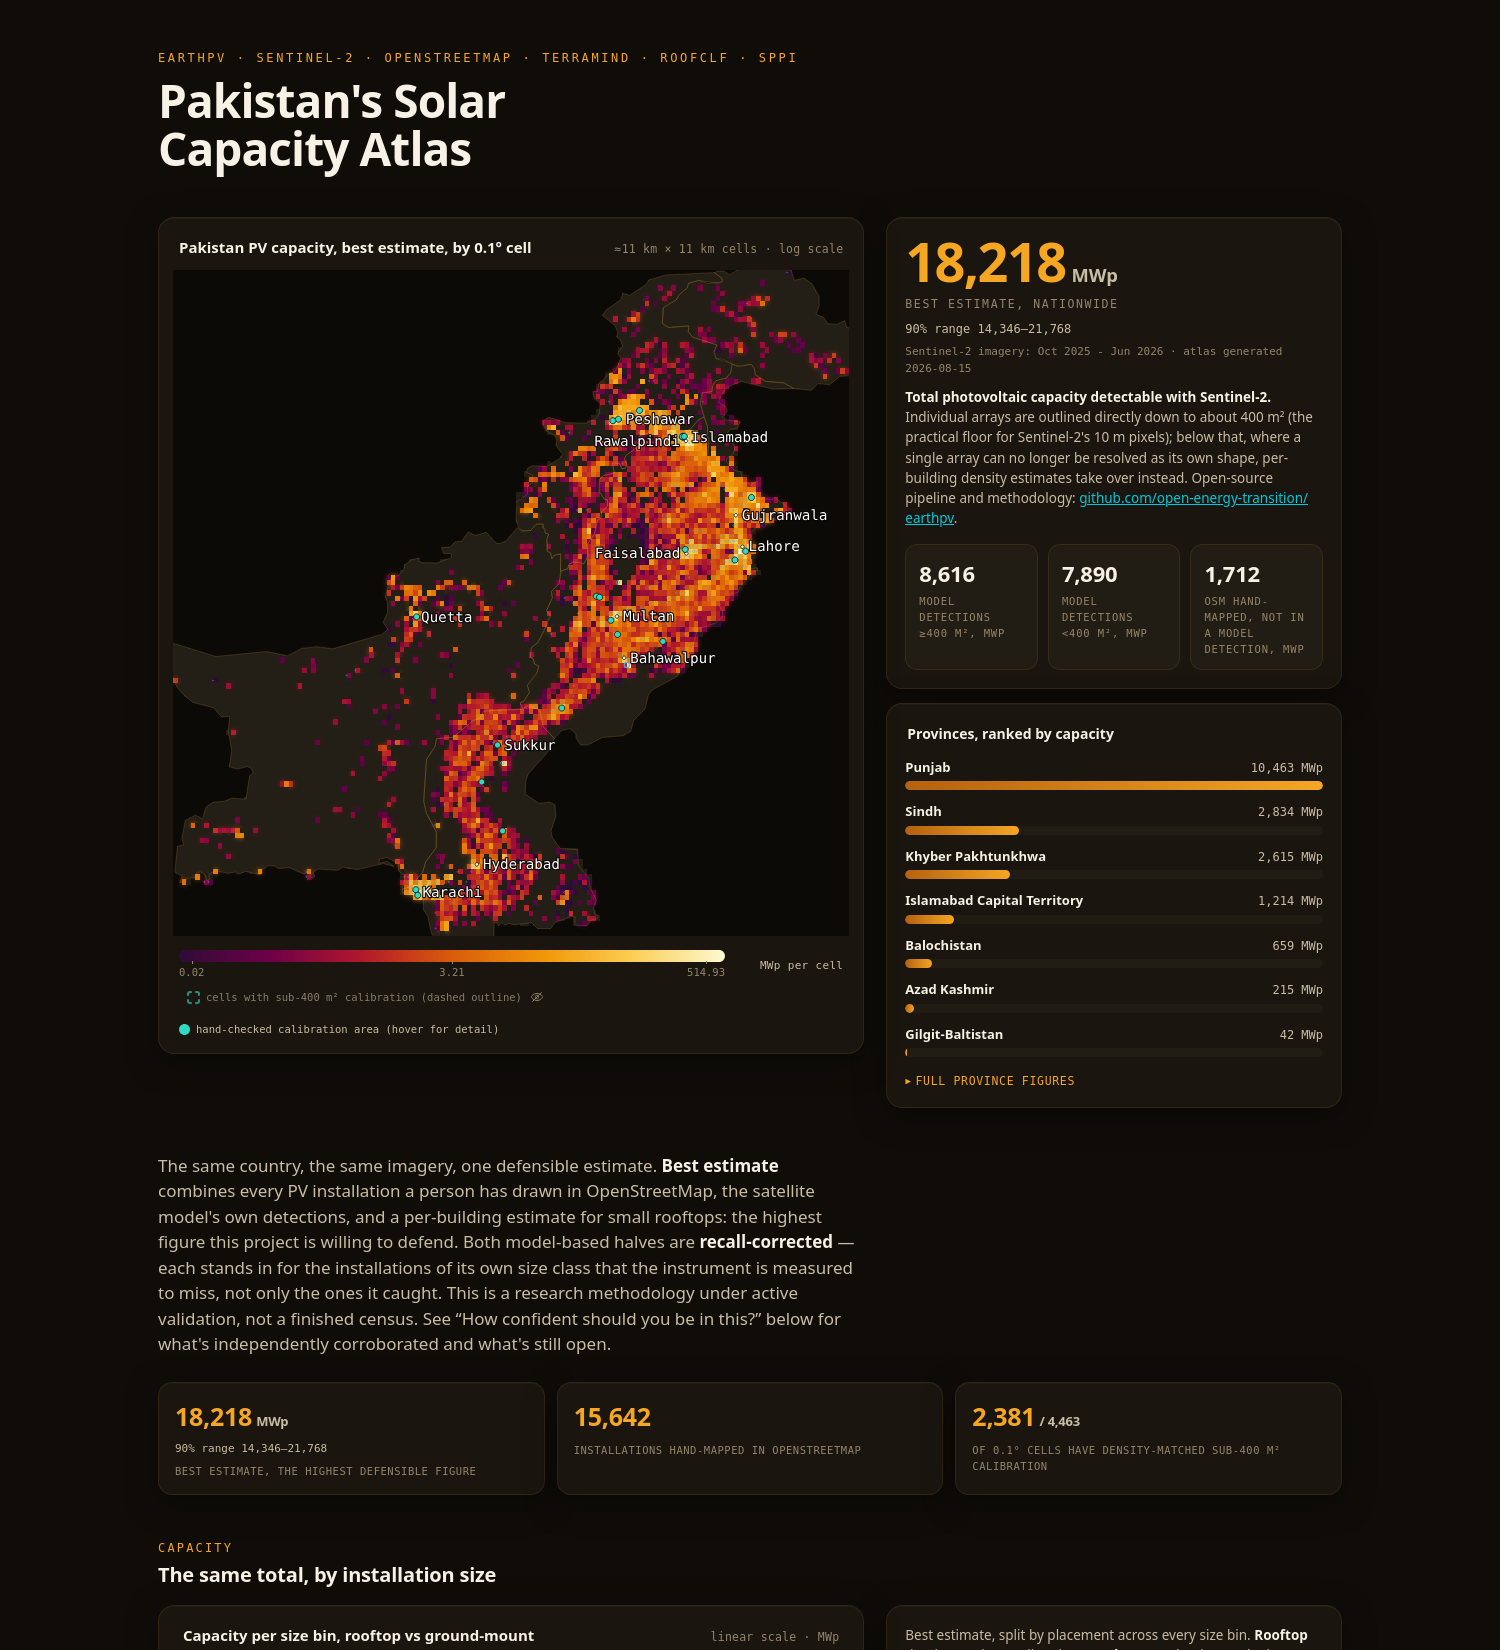
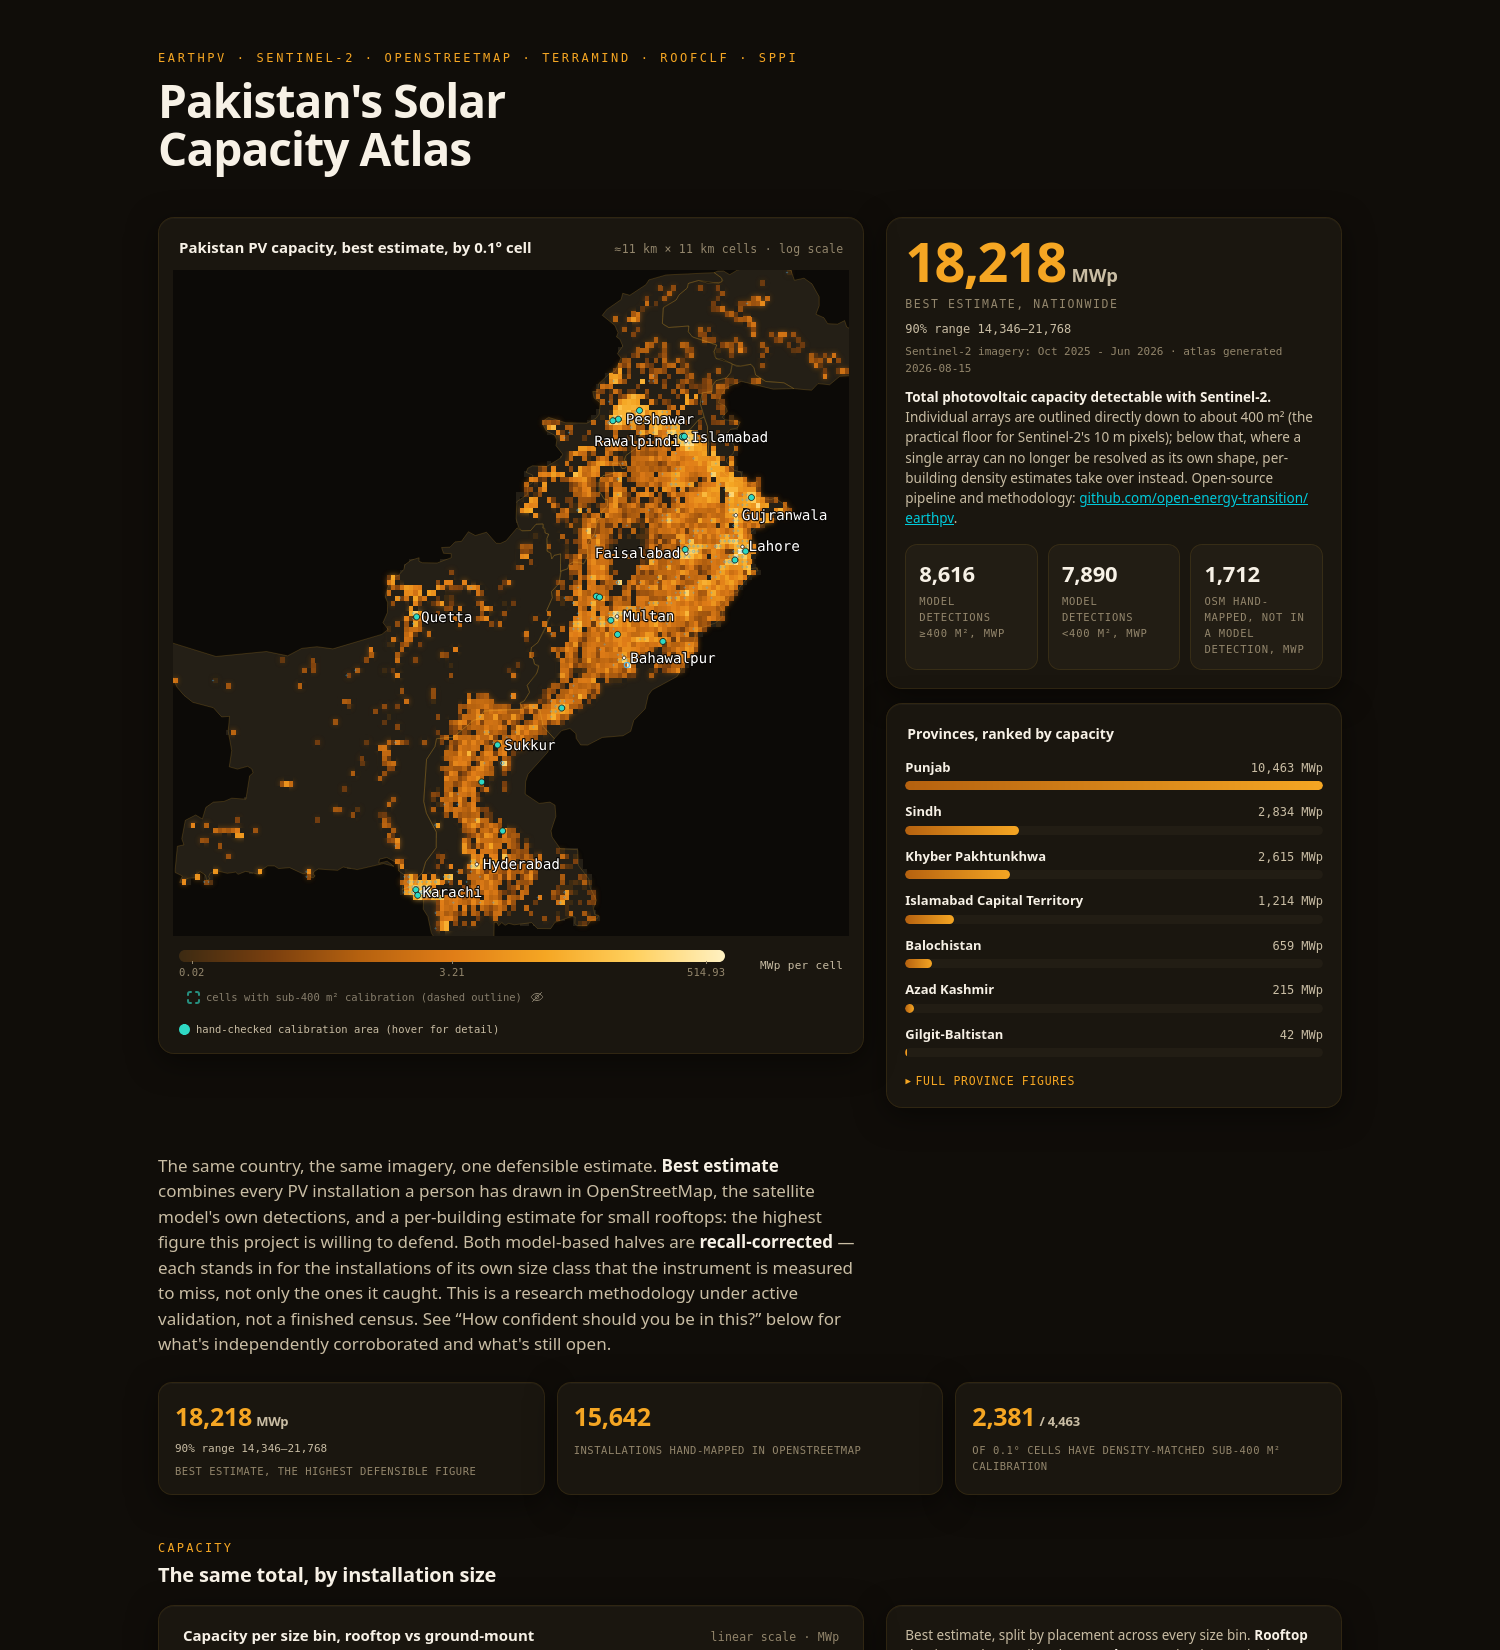
fix color back

Changed region(s): [[0.1227, 0.1545, 0.552, 0.5873], [0.2453, 0.34, 0.3373, 0.4018], [0.2453, 0.4945, 0.276, 0.5255]]

diff --git a/docs/assets/interactive/pakistan_evidence_atlas.html b/docs/assets/interactive/pakistan_evidence_atlas.html
@@ -797,17 +797,8 @@ out meta geom;</div>
   const meanlat = (b1 + b3) / 2, k = Math.cos(meanlat * Math.PI / 180);
   const W = 1000, H = Math.round(W * latspan / (lonspan * k));
 
-  /* Capacity ramp. The cell values are log-scaled over four decades, and ~70% of lit
-     cells land between t=0.15 and t=0.65, so a ramp that only travels in lightness spends
-     most of its perceptual range on the sparse top decade and leaves the crowded middle
-     looking flat. These extend the amber past red into deep magenta at the dim end, which
-     lengthens the path through OKLab rather than just redistributing it: measured against
-     this AOI's own cell distribution, the step between neighbouring percentiles grows
-     1.23x (dark) / 1.36x (light) overall, and no percentile band gets worse by more than
-     the top pair's rounding. Lightness stays monotone (adjacent dL >= 0.09) so the ramp
-     still reads as an ordered scale in greyscale and under CVD. */
-  const RAMP_DARK = ["#2e0c37","#700048","#b1172c","#d95c0b","#f09708","#fcce55","#fdf9d2"];
-  const RAMP_LIGHT = ["#eee0ab","#edb03b","#df750d","#ca2823","#930348","#5c0050","#2c0639"];
+  const RAMP_DARK = ["#3c2a12","#7a3f0e","#b5610f","#e07d17","#f5a623","#ffcf5c","#fff1c2"];
+  const RAMP_LIGHT = ["#f2e3bf","#eec98a","#e5a24e","#d97f22","#c25e12","#9c4410","#5f2c0a"];
 
   /* cell tuple: [lon0, lat0, verified, best, osm_mwp, osm_n, small_low,
      small_central, mwp_large, in_domain, pv_buildings, small_outdomain, is_extended] */

diff --git a/src/earthpv/templates/pv_evidence_atlas.html b/src/earthpv/templates/pv_evidence_atlas.html
@@ -797,17 +797,8 @@ out meta geom;</div>
   const meanlat = (b1 + b3) / 2, k = Math.cos(meanlat * Math.PI / 180);
   const W = 1000, H = Math.round(W * latspan / (lonspan * k));
 
-  /* Capacity ramp. The cell values are log-scaled over four decades, and ~70% of lit
-     cells land between t=0.15 and t=0.65, so a ramp that only travels in lightness spends
-     most of its perceptual range on the sparse top decade and leaves the crowded middle
-     looking flat. These extend the amber past red into deep magenta at the dim end, which
-     lengthens the path through OKLab rather than just redistributing it: measured against
-     this AOI's own cell distribution, the step between neighbouring percentiles grows
-     1.23x (dark) / 1.36x (light) overall, and no percentile band gets worse by more than
-     the top pair's rounding. Lightness stays monotone (adjacent dL >= 0.09) so the ramp
-     still reads as an ordered scale in greyscale and under CVD. */
-  const RAMP_DARK = ["#2e0c37","#700048","#b1172c","#d95c0b","#f09708","#fcce55","#fdf9d2"];
-  const RAMP_LIGHT = ["#eee0ab","#edb03b","#df750d","#ca2823","#930348","#5c0050","#2c0639"];
+  const RAMP_DARK = ["#3c2a12","#7a3f0e","#b5610f","#e07d17","#f5a623","#ffcf5c","#fff1c2"];
+  const RAMP_LIGHT = ["#f2e3bf","#eec98a","#e5a24e","#d97f22","#c25e12","#9c4410","#5f2c0a"];
 
   /* cell tuple: [lon0, lat0, verified, best, osm_mwp, osm_n, small_low,
      small_central, mwp_large, in_domain, pv_buildings, small_outdomain, is_extended] */

diff --git a/scripts/atlas_ramp_audit.py b/scripts/atlas_ramp_audit.py
@@ -1,0 +1,213 @@
+"""Measure and preview the evidence atlas's capacity ramp against its own cell distribution.
+
+A choropleth ramp cannot be judged from swatches. What matters is what the AOI's real cells
+look like drawn at their real spatial distribution, against the land and map-background
+colours they sit on, and whether neighbouring percentiles of the actual value distribution
+are far enough apart in a perceptual space to be told apart.
+
+This does both: it scores a ramp on the metrics `pv_evidence_atlas.html` commits to in its
+own comment, and renders candidates side by side onto the real grid.
+
+    audit    score the shipped dark and light ramps (and any candidates below)
+    preview  render them onto the AOI's cells as a PNG
+
+Metrics, all in OKLab:
+  pctStep   mean distance between the colours of neighbouring percentiles of the lit-cell
+            value distribution. The headline "can you tell two similar cells apart" number.
+  p10       the same at the 10th percentile of steps, i.e. the worst regions of the ramp.
+  p50-90    distance across the crowded middle, where most of the country sits.
+  p90-100   distance across the sparse top decade, which should stay large enough that the
+            biggest cities still read as exceptional.
+  dLmin     smallest adjacent lightness step; keeps the ramp an ordered scale in greyscale.
+  dim|land  distance from the ramp's dimmest stop to the unlit land colour. This is the
+            lit-versus-unlit contrast and it is easy to lose.
+  cvd       pctStep under simulated deuteranopia.
+
+Usage:
+    .pixi/envs/default/bin/python scripts/atlas_ramp_audit.py audit
+    .pixi/envs/default/bin/python scripts/atlas_ramp_audit.py preview --out /tmp/ramp.png
+"""
+from __future__ import annotations
+
+import argparse
+import json
+import re
+from pathlib import Path
+
+import numpy as np
+
+ROOT = Path(__file__).resolve().parents[1]
+ATLAS = ROOT / "docs" / "assets" / "interactive" / "pakistan_evidence_atlas.html"
+TEMPLATE = ROOT / "src" / "earthpv" / "templates" / "pv_evidence_atlas.html"
+# straight from the template's :root blocks
+LAND_DARK, MAPBG_DARK = "#241f16", "#0c0a07"
+LAND_LIGHT, MAPBG_LIGHT = "#e6dcc7", "#efe8d8"
+VMIN = 0.02
+
+
+# ------------------------------------------------------------------ colour
+def hex2rgb(h):
+    h = h.lstrip("#")
+    return np.array([int(h[i:i + 2], 16) for i in (0, 2, 4)], float) / 255.0
+
+
+def srgb_to_linear(c):
+    c = np.asarray(c, float)
+    return np.where(c <= 0.04045, c / 12.92, ((c + 0.055) / 1.055) ** 2.4)
+
+
+def linear_to_srgb(c):
+    c = np.asarray(c, float)
+    return np.where(c <= 0.0031308, c * 12.92, 1.055 * np.clip(c, 0, None) ** (1 / 2.4) - 0.055)
+
+
+_M1 = np.array([[0.4122214708, 0.5363325363, 0.0514459929],
+                [0.2119034982, 0.6806995451, 0.1073969566],
+                [0.0883024619, 0.2817188376, 0.6299787005]])
+_M2 = np.array([[0.2104542553, 0.7936177850, -0.0040720468],
+                [1.9779984951, -2.4285922050, 0.4505937099],
+                [0.0259040371, 0.7827717662, -0.8086757660]])
+_LMS = np.array([[0.31399022, 0.63951294, 0.04649755],
+                 [0.15537241, 0.75789446, 0.08670142],
+                 [0.01775239, 0.10944209, 0.87256922]])
+
+
+def rgb2oklab(rgb):
+    return np.cbrt(srgb_to_linear(np.asarray(rgb, float)) @ _M1.T) @ _M2.T
+
+
+def deuteranope(rgb):
+    lms = srgb_to_linear(rgb) @ _LMS.T
+    out = lms.copy()
+    out[:, 1] = 0.9513092 * lms[:, 0] + 0.04866992 * lms[:, 2]
+    return linear_to_srgb(np.clip(out @ np.linalg.inv(_LMS).T, 0, 1))
+
+
+# ------------------------------------------------------------------ data + ramp
+def load_cells():
+    d = json.loads(re.search(r'<script id="pv" type="application/json">(.*?)</script>',
+                             ATLAS.read_text(), re.S).group(1))
+    return d
+
+
+def shipped_ramps():
+    """The two ramps currently in the TEMPLATE, so the audit tracks the source of truth."""
+    s = TEMPLATE.read_text()
+    out = {}
+    for name in ("RAMP_DARK", "RAMP_LIGHT"):
+        m = re.search(rf'const {name} = \[(.*?)\];', s, re.S)
+        out[name] = re.findall(r'#[0-9a-fA-F]{6}', m.group(1))
+    return out["RAMP_DARK"], out["RAMP_LIGHT"]
+
+
+def t_of(v, vmax):
+    return (np.log(np.maximum(v, VMIN)) - np.log(VMIN)) / (np.log(vmax) - np.log(VMIN))
+
+
+def ramp_color(t, stops_rgb):
+    """The template's own piecewise-linear sRGB interpolation, reproduced exactly."""
+    t = np.clip(np.asarray(t, float), 0, 1)
+    n = len(stops_rgb) - 1
+    f = t * n
+    i = np.minimum(n - 1, np.floor(f).astype(int))
+    r = (f - i)[:, None]
+    a, b = stops_rgb[i], stops_rgb[i + 1]
+    return a + (b - a) * r
+
+
+def score(stops, values, land):
+    rgb = np.array([hex2rgb(h) for h in stops])
+    vmax = max(8.0, values.max())
+    qs = np.percentile(values, np.linspace(0, 100, 101))
+    lab = rgb2oklab(ramp_color(t_of(qs, vmax), rgb))
+    steps = np.linalg.norm(np.diff(lab, axis=0), axis=1)
+    marks = rgb2oklab(ramp_color(t_of(np.percentile(values, [0, 50, 90, 100]), vmax), rgb))
+    slab = rgb2oklab(rgb)
+    dL = np.diff(slab[:, 0])
+    cvd = np.linalg.norm(np.diff(rgb2oklab(deuteranope(
+        ramp_color(t_of(qs, vmax), rgb))), axis=0), axis=1)
+    return {
+        "pctStep": steps.mean(), "p10": np.percentile(steps, 10),
+        "p0-50": np.linalg.norm(marks[1] - marks[0]),
+        "p50-90": np.linalg.norm(marks[2] - marks[1]),
+        "p90-100": np.linalg.norm(marks[3] - marks[2]),
+        "dLmin": np.abs(dL).min(),
+        "mono": bool(np.all(dL > 0) or np.all(dL < 0)),
+        "dim|land": float(np.linalg.norm(slab[0] - rgb2oklab(hex2rgb(land)))),
+        "cvd": cvd.mean(),
+    }
+
+
+def cmd_audit(args):
+    d = load_cells()
+    v = np.array([c[3] for c in d["cells"]], float)
+    v = v[v > 0]
+    dark, light = shipped_ramps()
+    print(f"{len(v)} lit cells, {v.min():.3f}-{v.max():.1f} MWp\n")
+    hdr = (f"{'ramp':16s} {'pctStep':>8s} {'p10':>7s} {'p0-50':>6s} {'p50-90':>7s} "
+           f"{'p90-100':>8s} {'dLmin':>6s} {'dim|land':>8s} {'cvd':>7s} mono")
+    print(hdr)
+    print("-" * len(hdr))
+    for name, stops, land in (("shipped dark", dark, LAND_DARK),
+                              ("shipped light", light, LAND_LIGHT)):
+        s = score(stops, v, land)
+        print(f"{name:16s} {s['pctStep']:8.4f} {s['p10']:7.4f} {s['p0-50']:6.3f} "
+              f"{s['p50-90']:7.3f} {s['p90-100']:8.3f} {s['dLmin']:6.3f} "
+              f"{s['dim|land']:8.3f} {s['cvd']:7.4f} {'y' if s['mono'] else 'NO'}")
+        print(f"{'':16s} {stops}")
+
+
+def cmd_preview(args):
+    import matplotlib
+    matplotlib.use("Agg")
+    import matplotlib.pyplot as plt
+    from matplotlib.patches import Rectangle
+
+    d = load_cells()
+    dark, light = shipped_ramps()
+    stops = light if args.light else dark
+    land = LAND_LIGHT if args.light else LAND_DARK
+    mapbg = MAPBG_LIGHT if args.light else MAPBG_DARK
+    cells = np.array([[c[0], c[1], c[3]] for c in d["cells"]], float)
+    b0, b1, b2, b3 = d["bounds"]
+    k = np.cos(np.radians((b1 + b3) / 2))
+    v = cells[:, 2]
+    t = np.where(v > 0, t_of(v, max(8.0, v.max())), -1)
+    rgb = np.array([hex2rgb(h) for h in stops])
+    cols = ramp_color(np.clip(t, 0, 1), rgb)
+
+    fig, ax = plt.subplots(figsize=(6.4, 8.0), facecolor=mapbg)
+    ax.set_facecolor(mapbg)
+    for i in range(len(cells)):
+        c = cols[i] if t[i] >= 0 else hex2rgb(land)
+        ax.add_patch(Rectangle((cells[i, 0], cells[i, 1]), 0.1, 0.1,
+                               facecolor=tuple(np.clip(c, 0, 1)), edgecolor="none"))
+    strip = ramp_color(np.linspace(0, 1, 256), rgb).reshape(1, 256, 3)
+    ax.imshow(np.clip(strip, 0, 1), extent=[b0, b2, b1 - 1.15, b1 - 0.35], aspect="auto")
+    ax.set_xlim(b0, b2)
+    ax.set_ylim(b1 - 1.3, b3)
+    ax.set_aspect(1 / k)
+    ax.set_xticks([])
+    ax.set_yticks([])
+    for sp in ax.spines.values():
+        sp.set_visible(False)
+    fig.tight_layout()
+    fig.savefig(args.out, dpi=90, facecolor=mapbg)
+    print("wrote", args.out)
+
+
+def main():
+    ap = argparse.ArgumentParser(description=__doc__,
+                                 formatter_class=argparse.RawDescriptionHelpFormatter)
+    sub = ap.add_subparsers(dest="cmd", required=True)
+    sub.add_parser("audit").set_defaults(fn=cmd_audit)
+    p = sub.add_parser("preview")
+    p.add_argument("--out", default="ramp_preview.png")
+    p.add_argument("--light", action="store_true")
+    p.set_defaults(fn=cmd_preview)
+    args = ap.parse_args()
+    args.fn(args)
+
+
+if __name__ == "__main__":
+    main()
